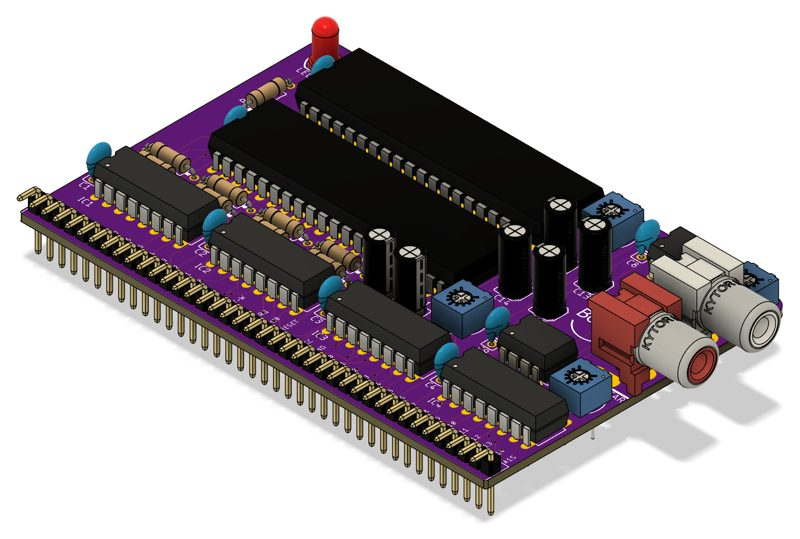
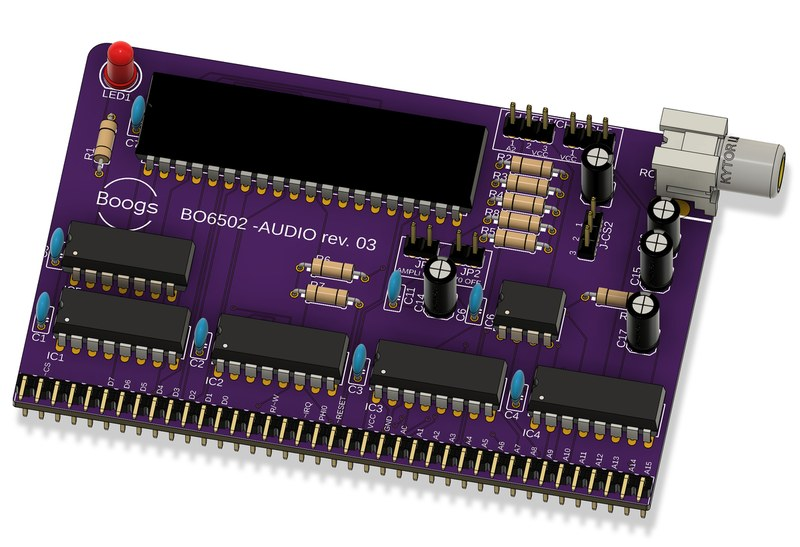
Audio module: picture of the rev. 03 board, one board per channel

diff --git a/it/index.html b/it/index.html
@@ -141,7 +141,7 @@
         <a class="module" href="https://github.com/Boogs77/BO6502_65C02-based_modular_computer/tree/main/BO6502%20KEYb"><img src="../img/m_keyb.jpg" alt="" loading="lazy"><div><b>Tastiera</b><span>W65C22 · $D18X</span></div></a>
         <a class="module" href="https://github.com/Boogs77/BO6502_65C02-based_modular_computer/tree/main/BO6502%20BIGLCD"><img src="../img/m_biglcd.jpg" alt="" loading="lazy"><div><b>Big LCD</b><span>160x128 · $D19X</span></div></a>
         <a class="module" href="https://github.com/Boogs77/BO6502_65C02-based_modular_computer/tree/main/BO6502%20SDCard"><img src="../img/m_sdcard.jpg" alt="" loading="lazy"><div><b>SD card</b><span>SPI · $D1BX</span></div></a>
-        <a class="module" href="https://github.com/Boogs77/BO6502_65C02-based_modular_computer/tree/main/BO6502%20AUDIO"><img src="../img/m_audio.jpg" alt="" loading="lazy"><div><b>Audio</b><span>2x AY-3-8910</span></div></a>
+        <a class="module" href="https://github.com/Boogs77/BO6502_65C02-based_modular_computer/tree/main/BO6502%20AUDIO"><img src="../img/m_audio.jpg" alt="" loading="lazy"><div><b>Audio</b><span>AY-3-8910, una scheda per canale</span></div></a>
         <a class="module" href="https://github.com/Boogs77/BO6502_65C02-based_modular_computer/tree/main/BO6502%20JOYSTICK"><img src="../img/m_joystick.jpg" alt="" loading="lazy"><div><b>Joystick</b><span>W65C22 · 2x DB9</span></div></a>
         <a class="module" href="https://github.com/Boogs77/BO6502_65C02-based_modular_computer/tree/main/BO6502%20BACKPLATE"><img src="../img/m_backplate.jpg" alt="" loading="lazy"><div><b>Backplate</b><span>bus a 39 pin</span></div></a>
       </div>

diff --git a/index.html b/index.html
@@ -141,7 +141,7 @@
         <a class="module" href="https://github.com/Boogs77/BO6502_65C02-based_modular_computer/tree/main/BO6502%20KEYb"><img src="img/m_keyb.jpg" alt="" loading="lazy"><div><b>Keyboard</b><span>W65C22 · $D18X</span></div></a>
         <a class="module" href="https://github.com/Boogs77/BO6502_65C02-based_modular_computer/tree/main/BO6502%20BIGLCD"><img src="img/m_biglcd.jpg" alt="" loading="lazy"><div><b>Big LCD</b><span>160x128 · $D19X</span></div></a>
         <a class="module" href="https://github.com/Boogs77/BO6502_65C02-based_modular_computer/tree/main/BO6502%20SDCard"><img src="img/m_sdcard.jpg" alt="" loading="lazy"><div><b>SD Card</b><span>SPI · $D1BX</span></div></a>
-        <a class="module" href="https://github.com/Boogs77/BO6502_65C02-based_modular_computer/tree/main/BO6502%20AUDIO"><img src="img/m_audio.jpg" alt="" loading="lazy"><div><b>Audio</b><span>2x AY-3-8910</span></div></a>
+        <a class="module" href="https://github.com/Boogs77/BO6502_65C02-based_modular_computer/tree/main/BO6502%20AUDIO"><img src="img/m_audio.jpg" alt="" loading="lazy"><div><b>Audio</b><span>AY-3-8910, one board per channel</span></div></a>
         <a class="module" href="https://github.com/Boogs77/BO6502_65C02-based_modular_computer/tree/main/BO6502%20JOYSTICK"><img src="img/m_joystick.jpg" alt="" loading="lazy"><div><b>Joystick</b><span>W65C22 · 2x DB9</span></div></a>
         <a class="module" href="https://github.com/Boogs77/BO6502_65C02-based_modular_computer/tree/main/BO6502%20BACKPLATE"><img src="img/m_backplate.jpg" alt="" loading="lazy"><div><b>Backplate</b><span>39-pin bus</span></div></a>
       </div>
